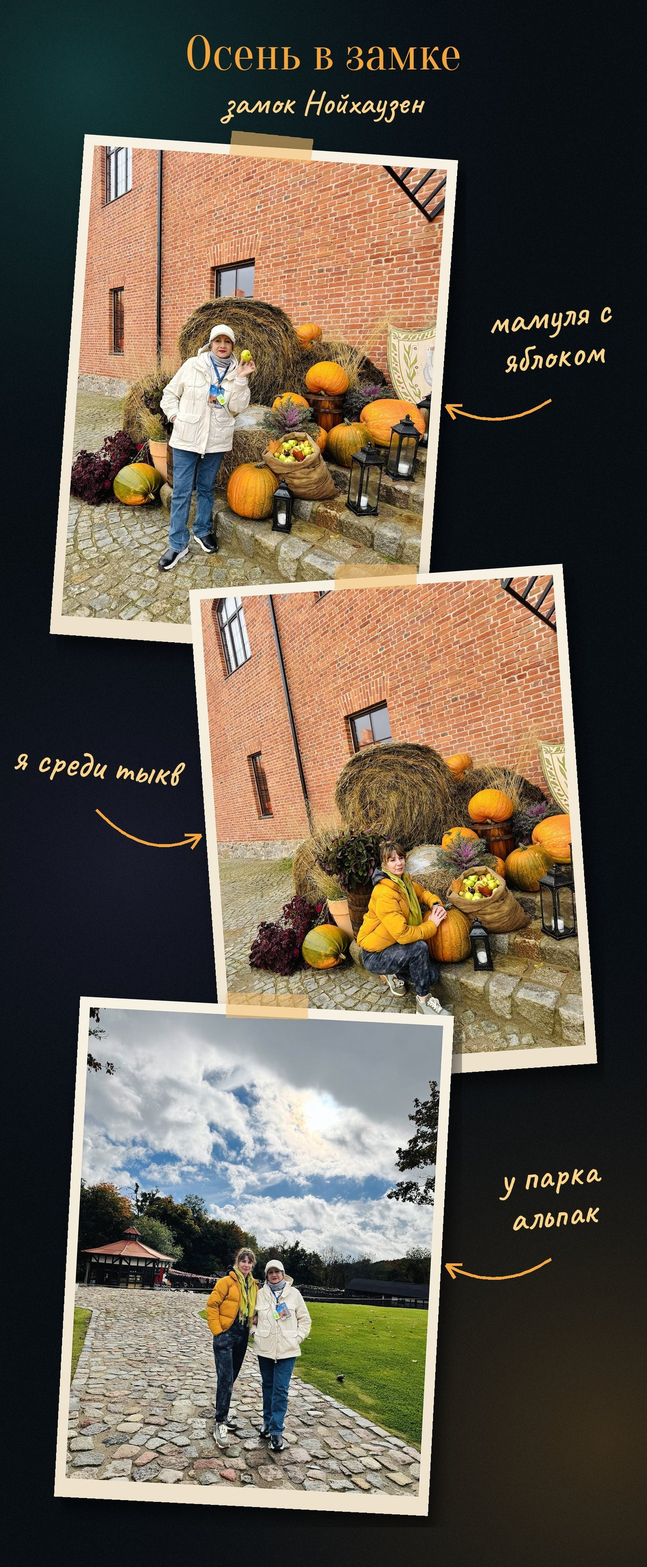
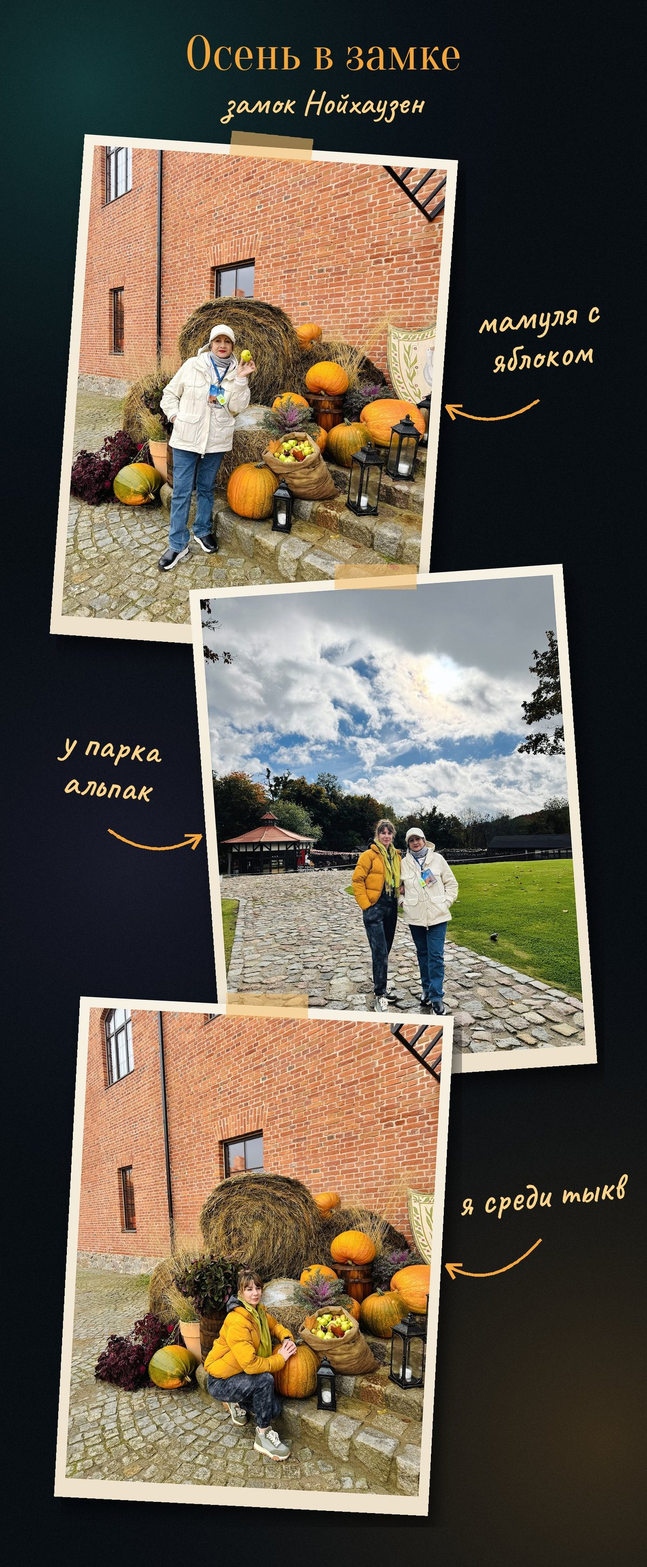
Альбом «Калининград»: страница «Осень в замке» — мы с мамулей в центре
По просьбе: сверху «мамуля с яблоком», в центре «у парка альпак», снизу «я среди тыкв».

Claude-Session: https://claude.ai/code/session_01BUmNQ2Kk9fTi5P6tnA3gYJ

diff --git a/kaliningrad/album/index.html b/kaliningrad/album/index.html
@@ -687,7 +687,7 @@ body.picking .wrap{padding-bottom:calc(var(--nav-h) + 230px + env(safe-area-inse
  {"id": "d2-87", "day": 2, "src": "photos/d2-87.jpg?v=2", "thumb": "photos/t/d2-87.jpg?v=2", "w": 1200, "h": 2906, "place": "neuh", "title": "Рассказ гида", "date": "2026-10-12", "collage": true},
  {"id": "d2-88", "day": 2, "src": "photos/d2-88.jpg?v=2", "thumb": "photos/t/d2-88.jpg?v=2", "w": 1200, "h": 2906, "place": "neuh", "title": "Уголки замка", "date": "2026-10-12", "collage": true},
  {"id": "d2-89", "day": 2, "src": "photos/d2-89.jpg?v=2", "thumb": "photos/t/d2-89.jpg?v=2", "w": 1200, "h": 2906, "place": "neuh", "title": "Таверна «Орден гуся»", "date": "2026-10-12", "collage": true},
- {"id": "d2-90", "day": 2, "src": "photos/d2-90.jpg", "thumb": "photos/t/d2-90.jpg", "w": 1200, "h": 2906, "place": "neuh", "title": "Осень в замке", "date": "2026-10-12", "collage": true},
+ {"id": "d2-90", "day": 2, "src": "photos/d2-90.jpg?v=2", "thumb": "photos/t/d2-90.jpg?v=2", "w": 1200, "h": 2906, "place": "neuh", "title": "Осень в замке", "date": "2026-10-12", "collage": true},
  {"id": "d2-32", "day": 2, "src": "photos/d2-32.jpg", "thumb": "photos/t/d2-32.jpg", "w": 1500, "h": 2000, "place": "neuh", "title": "С мамулей у парка альпак, чёрно-белое", "date": "2026-10-12"},
  {"id": "d2-91", "day": 2, "src": "photos/d2-91.jpg", "thumb": "photos/t/d2-91.jpg", "w": 1200, "h": 2906, "place": "neuh", "title": "У колодца Нойхаузена", "date": "2026-10-12", "collage": true},
  {"id": "d2-35", "day": 2, "src": "photos/d2-35.jpg", "thumb": "photos/t/d2-35.jpg", "w": 1125, "h": 2000, "place": "neuh", "title": "Мамуля на старинной лестнице замка", "date": "2026-10-12"},
